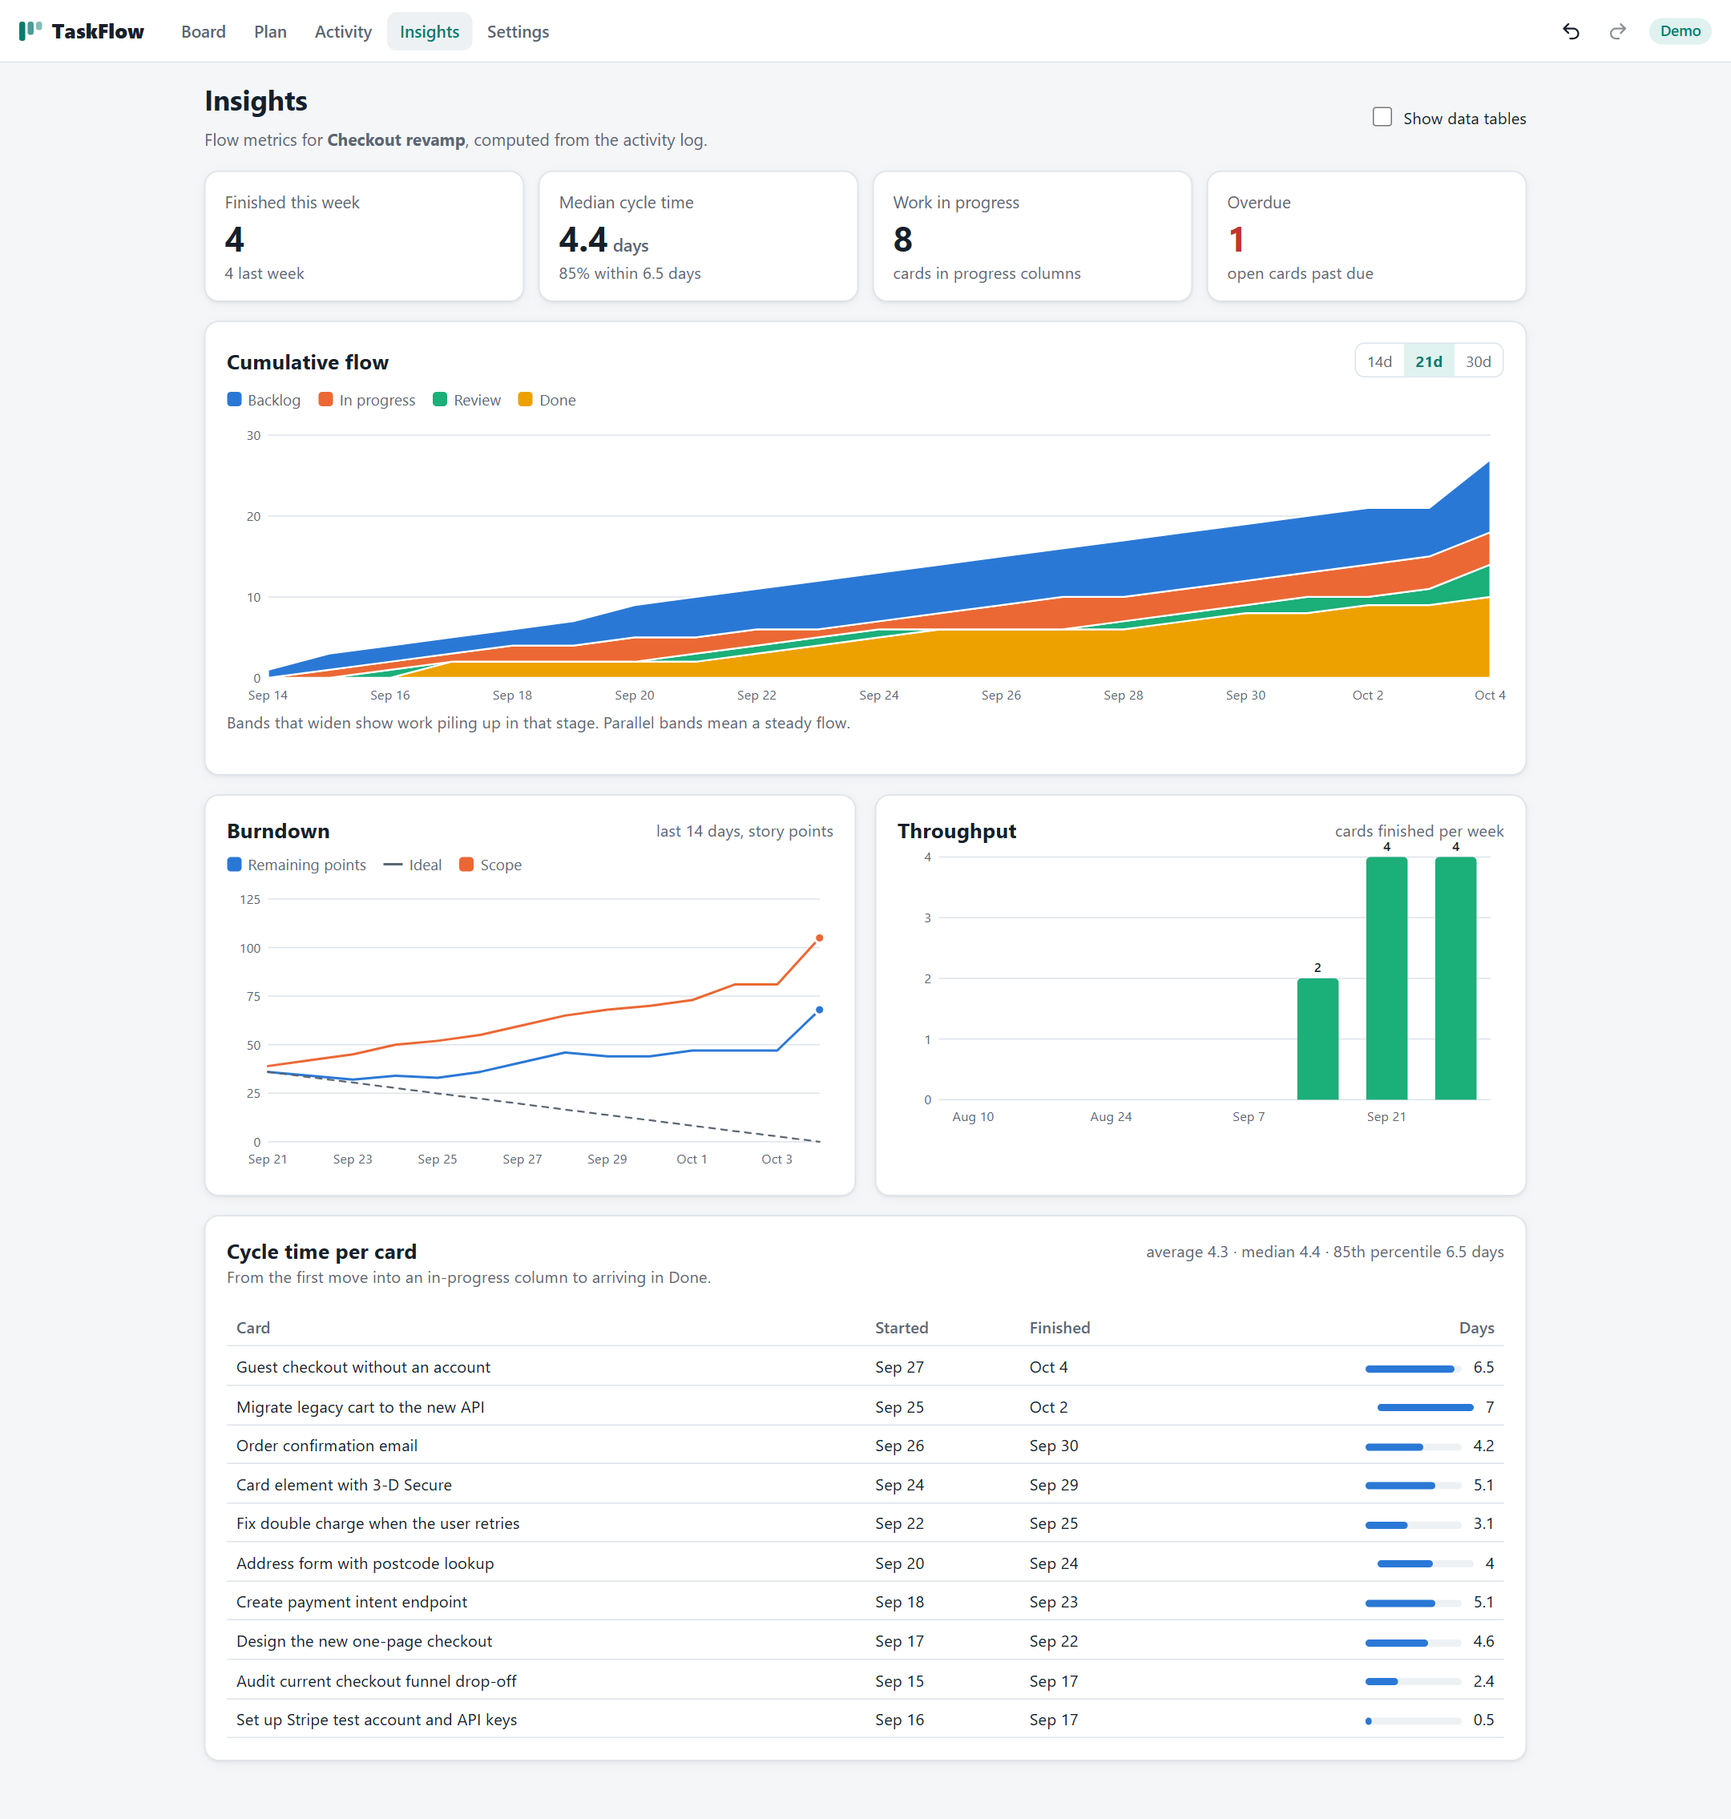
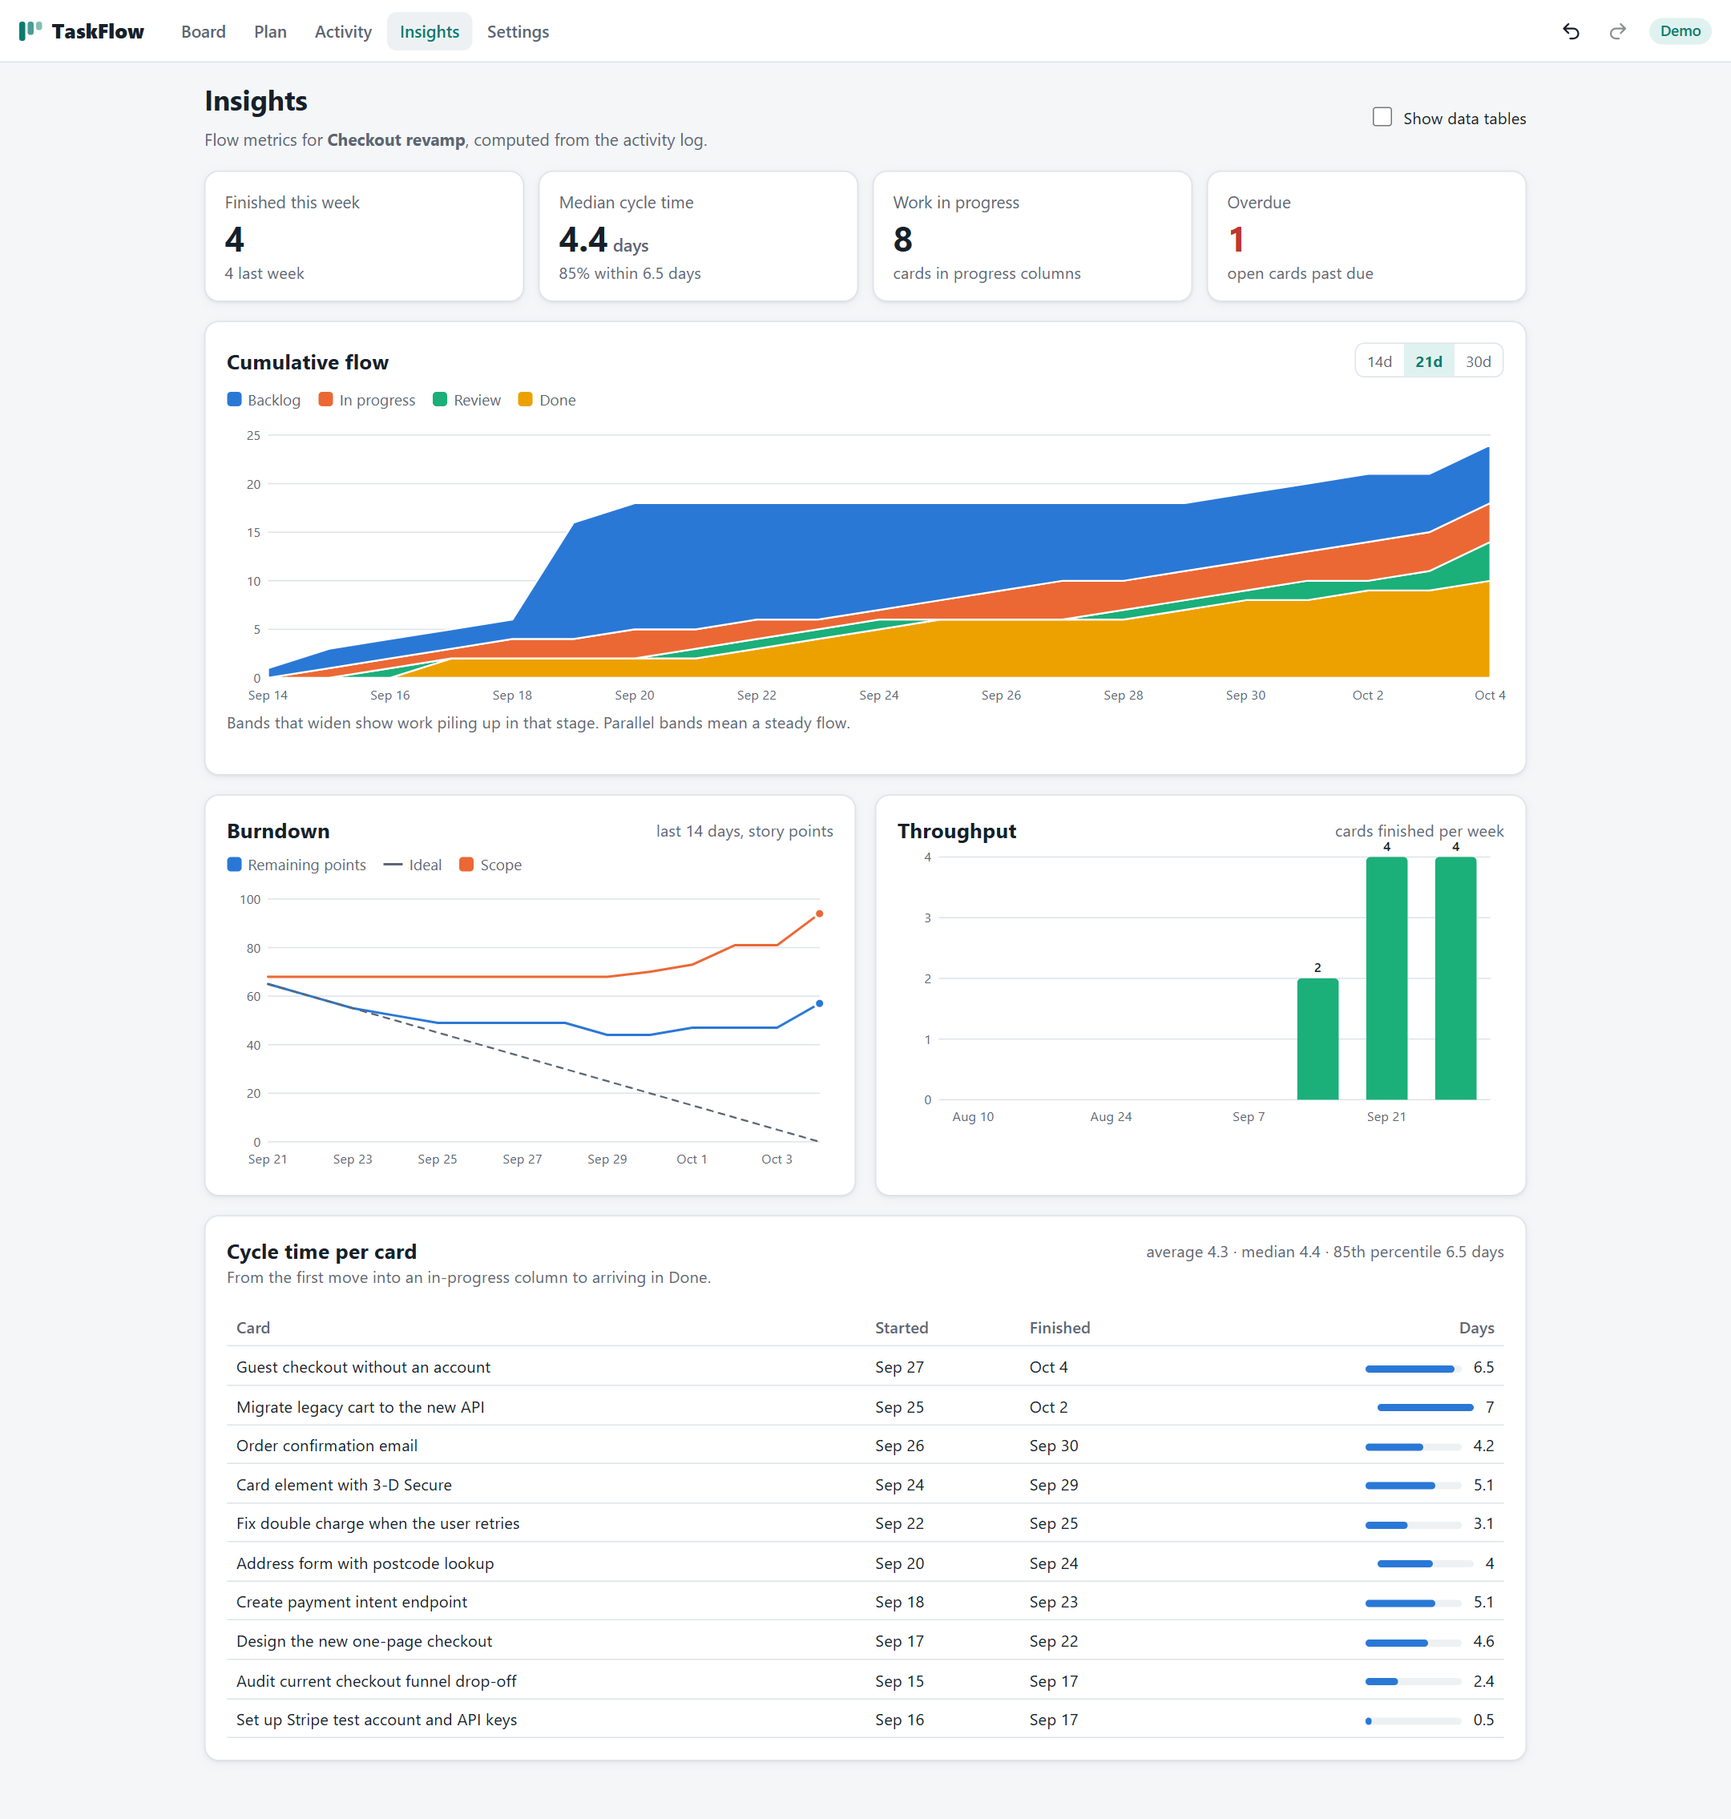
README with architecture, screenshots and testing notes; seed a sprint-shaped backlog

diff --git a/src/app/core/seed.ts b/src/app/core/seed.ts
@@ -49,7 +49,7 @@ const CHECKOUT: SeedCard[] = [
   { title: 'Create payment intent endpoint', labels: ['l-be'], who: 'Ben', points: 5, path: [[18, 'b'], [16.3, 'p'], [12.6, 'r'], [11.2, 'd']],
     description: '`POST /api/payments/intent` returns a client secret.\n\nMust be **idempotent**: reuse the intent for the same cart id.' },
   { title: 'Address form with postcode lookup', labels: ['l-fe'], who: 'Chen', points: 3, path: [[17, 'b'], [14.1, 'p'], [11.3, 'r'], [10.1, 'd']] },
-  { title: 'Fix double charge when the user retries', labels: ['l-bug', 'l-be'], who: 'Ben', priority: 'urgent', points: 3, path: [[12.5, 'b'], [12.3, 'p'], [10.4, 'r'], [9.2, 'd']],
+  { title: 'Fix double charge when the user retries', labels: ['l-bug', 'l-be'], who: 'Ben', priority: 'urgent', points: 3, path: [[15, 'b'], [12.3, 'p'], [10.4, 'r'], [9.2, 'd']],
     comments: [['Dana Novak', 'Two customers reported this on Friday. Refunded both manually.'], ['Ben Ortiz', 'Root cause: missing idempotency key on retry. Fix is in review.']] },
   { title: 'Card element with 3-D Secure', labels: ['l-fe'], who: 'Chen', points: 5, priority: 'high', path: [[15, 'b'], [10.2, 'p'], [6.3, 'r'], [5.1, 'd']] },
   { title: 'Order confirmation email', labels: ['l-be'], who: 'Dana', points: 2, path: [[14, 'b'], [8.4, 'p'], [5.4, 'r'], [4.2, 'd']] },
@@ -57,21 +57,21 @@ const CHECKOUT: SeedCard[] = [
   { title: 'Migrate legacy cart to the new API', labels: ['l-debt', 'l-be'], who: 'Ben', points: 8, path: [[16, 'b'], [9.1, 'p'], [4.3, 'r'], [2.1, 'd']],
     description: 'The old cart service still writes to the monolith database. Move reads and writes to the cart API and delete the old code path.' },
 
-  { title: 'Webhook handler for payment status', labels: ['l-be'], who: 'Ben', points: 5, priority: 'high', due: 1, path: [[13, 'b'], [5.2, 'p'], [1.1, 'r']],
+  { title: 'Webhook handler for payment status', labels: ['l-be'], who: 'Ben', points: 5, priority: 'high', due: 1, path: [[15, 'b'], [5.2, 'p'], [1.1, 'r']],
     checklist: [['Verify webhook signature', true], ['Ignore duplicate events', true], ['Handle payment_failed', false]] },
-  { title: 'Apple Pay and Google Pay buttons', labels: ['l-fe'], who: 'Chen', points: 3, due: 2, path: [[11, 'b'], [4.3, 'p'], [0.6, 'r']] },
-  { title: 'Accessibility pass on the checkout form', labels: ['l-fe', 'l-design'], who: 'Aisha', points: 2, path: [[9, 'b'], [3.2, 'p'], [0.3, 'r']],
+  { title: 'Apple Pay and Google Pay buttons', labels: ['l-fe'], who: 'Chen', points: 3, due: 2, path: [[15, 'b'], [4.3, 'p'], [0.6, 'r']] },
+  { title: 'Accessibility pass on the checkout form', labels: ['l-fe', 'l-design'], who: 'Aisha', points: 2, path: [[15, 'b'], [3.2, 'p'], [0.3, 'r']],
     description: 'Check with a screen reader and keyboard only.\n\n1. Every field has a visible label\n2. Errors are announced\n3. Focus moves to the first error on submit' },
 
-  { title: 'Refund flow in the admin panel', labels: ['l-be', 'l-blocked'], who: 'Dana', points: 5, priority: 'high', due: -1, path: [[10, 'b'], [2.2, 'p']],
+  { title: 'Refund flow in the admin panel', labels: ['l-be', 'l-blocked'], who: 'Dana', points: 5, priority: 'high', due: -1, path: [[15, 'b'], [2.2, 'p']],
     comments: [['Dana Novak', 'Blocked: waiting for finance to confirm partial refund rules.']] },
-  { title: 'Promo code field and validation', labels: ['l-fe'], who: 'Chen', points: 3, due: 3, path: [[8, 'b'], [1.2, 'p']] },
-  { title: 'Checkout analytics dashboard', labels: ['l-fe'], who: 'Aisha', points: 5, due: 5, path: [[6, 'b'], [0.4, 'p']],
+  { title: 'Promo code field and validation', labels: ['l-fe'], who: 'Chen', points: 3, due: 3, path: [[15, 'b'], [1.2, 'p']] },
+  { title: 'Checkout analytics dashboard', labels: ['l-fe'], who: 'Aisha', points: 5, due: 5, path: [[15, 'b'], [0.4, 'p']],
     description: 'A small dashboard for the product team: conversion per step, payment failures by reason, average order value.' },
 
   { title: 'Fix tax rounding on multi-currency orders', labels: ['l-bug'], who: 'Dana', priority: 'high', points: 2, due: 2, path: [[4, 'b']] },
-  { title: 'Saved cards for returning customers', labels: ['l-be', 'l-fe'], points: 5, due: 10, path: [[7, 'b']] },
-  { title: 'Sign in with Google at checkout', labels: ['l-fe'], who: 'Aisha', points: 3, path: [[5, 'b']] },
+  { title: 'Saved cards for returning customers', labels: ['l-be', 'l-fe'], points: 5, due: 10, path: [[15, 'b']] },
+  { title: 'Sign in with Google at checkout', labels: ['l-fe'], who: 'Aisha', points: 3, path: [[15, 'b']] },
   { title: 'Load test the payment API', labels: ['l-be'], who: 'Ben', points: 3, due: 6, path: [[3, 'b']] },
   { title: 'Mobile app checkout', labels: [], priority: 'medium', points: 8, path: [[2, 'b']],
     description: 'Bring the new one-page checkout to the **iOS and Android** apps. This is too big for one card: use *Break down* to split it.' },

diff --git a/README.md b/README.md
@@ -1,59 +1,117 @@
-# TaskflowAi
+# TaskFlow
 
-This project was generated using [Angular CLI](https://github.com/angular/angular-cli) version 20.3.37.
+![Angular](https://img.shields.io/badge/Angular-20-DD0031?logo=angular&logoColor=white)
+![NgRx](https://img.shields.io/badge/NgRx-Store%20%7C%20Effects%20%7C%20Entity%20%7C%20Signals-BA2BD2?logo=ngrx&logoColor=white)
+![TypeScript](https://img.shields.io/badge/TypeScript-strict-3178C6?logo=typescript&logoColor=white)
+![LLM](https://img.shields.io/badge/LLM-Gemini%20%7C%20Groq-8E75B2)
+![CI](https://github.com/Konicamaheshwarii/taskflow-ai/actions/workflows/ci.yml/badge.svg)
+![License](https://img.shields.io/badge/license-MIT-blue)
 
-## Development server
+A Kanban project board built on NgRx, with AI task planning. Drag cards between columns, set WIP limits, filter and group by assignee, and undo anything. Ask the AI to break a big card into estimated subtasks, turn a goal into an epic with user stories and acceptance criteria, or write the daily standup from the board's activity log. An Insights page draws a cumulative flow diagram, a burndown, throughput and per-card cycle time, all computed from that log.
 
-To start a local development server, run:
+**[▶ Live demo](https://konicamaheshwarii.github.io/taskflow-ai/)**: opens on a seeded demo board in Demo mode. No key or sign-up needed.
 
-```bash
-ng serve
+![Board with WIP limits](docs/board.png)
+
+## Features
+
+- **Kanban boards.** Multiple boards with columns, WIP limits (amber at the limit, red when over) and a stage per column (not started, in progress, done).
+- **Rich cards.** Title, Markdown description (rendered by an escaping renderer), labels, assignee, due date, priority, story points, checklist and comments.
+- **Drag and drop** of cards between columns and of columns themselves, using `@angular/cdk/drag-drop`. Drops work in filtered views too.
+- **Keyboard moves.** Every card and column has an accessible menu (`@angular/cdk/menu`): move to column, move up or down, move a column left or right. Moves are announced to screen readers.
+- **Undo / redo** for every board change (Ctrl+Z, Ctrl+Shift+Z or Ctrl+Y, or the header buttons).
+- **Filters and swimlanes.** Search, labels, assignee, due date (overdue, due this week, none), and a swimlane view by assignee where dragging into another lane reassigns the card.
+- **Live sync across tabs.** Open the app in two tabs and changes appear in both (BroadcastChannel). Everything is saved in localStorage.
+- **AI: Break down.** Turns a card's goal into 4-8 subtasks with hour estimates. Add them as a checklist or as new cards.
+- **AI: Plan a sprint.** Paste a goal or spec and get an epic with user stories, acceptance criteria, points and priorities. Preview, untick what you don't want, then create the cards.
+- **AI: Standup summary.** Done, in progress and blockers for the last day, three days or week, written from the activity log, overdue cards and WIP alerts.
+- **Insights.** Cumulative flow, burndown with ideal and scope lines, weekly throughput and cycle time per card, as hand-written SVG charts with hover tooltips and optional data tables.
+- **Bring your own key** for Google Gemini or Groq (both have free tiers). Keys stay in your browser and go straight to the provider; there is no backend.
+- **Offline Demo mode** (the default): keyword templates for auth, payments, dashboards, landing pages, APIs, mobile apps, migrations, search and notifications, plus rule-based standups. Demo output goes through the same JSON validation as real model replies.
+- **Light and dark themes**, responsive down to 390px.
+
+| AI breakdown | Sprint planning |
+|---|---|
+| ![Break down a card](docs/breakdown.png) | ![Plan a sprint](docs/plan.png) |
+
+| Insights | Mobile, dark |
+|---|---|
+| ![Insights](docs/insights.png) | ![Mobile dark](docs/mobile-dark.png) |
+
+## Architecture
+
+```mermaid
+flowchart LR
+    UI[Standalone pages<br/>board · plan · activity · insights] --> Facade[BoardFacade]
+    UI --> UiStore[BoardUiStore<br/>signalStore: filters, lanes]
+    Facade --> Store[(NgRx Store<br/>kanban · history · ai)]
+    Store --> Meta[undoRedo<br/>meta-reducer]
+    Store --> Sel[memoized selectors]
+    Store --> Effects
+    Effects --> AI[AiEffects]
+    Effects --> Sync[SyncEffects]
+    AI --> LLM[LlmService]
+    LLM --> Gemini & Groq & Demo[DemoProvider<br/>keyword templates]
+    AI --> Parse[prompts.ts<br/>build + validate JSON]
+    Sync --> LS[(localStorage)]
+    Sync <--> BC{{BroadcastChannel<br/>other tabs}}
+    Store --> Metrics[metrics.ts<br/>CFD · burndown · cycle time]
 ```
 
-Once the server is running, open your browser and navigate to `http://localhost:4200/`. The application will automatically reload whenever you modify any of the source files.
+- **NgRx for shared state.** Boards, columns, cards, labels and members are `@ngrx/entity` collections in one `kanban` feature built with `createFeature`. Actions are grouped with `createActionGroup`, and every mutation carries its own timestamp and id so reducers stay pure. Runtime immutability checks are on, and Redux DevTools are connected (`provideStoreDevtools`).
+- **Signals for local UI state.** Filters and the swimlane toggle live in an `@ngrx/signals` `signalStore`, because they belong to one tab and should not be synced, persisted with the board, or undone.
+- **Memoized selectors.** `selectBoardView` only recomputes when the active board, its columns or the card entities change; the component then narrows it with the filter signal.
+- **Undo/redo as a meta-reducer.** It snapshots the `kanban` slice before each board action. Immutable state makes snapshots cheap (structural sharing). Selection, AI actions and remote changes are not recorded, and history is capped at 50 steps.
+- **Activity log as the source of truth for metrics.** Each create, move and delete is logged with the column's stage at the time. Cycle time, cumulative flow, burndown and throughput are pure functions of that log, so they work for past days and survive column renames.
+- **Tab sync without echo.** `SyncEffects` saves and broadcasts only after local board actions. Incoming state is applied as `Remote State Received`, which is never re-broadcast and keeps each tab on the board it is viewing.
+- **Defensive AI output handling.** Code fences, surrounding prose and `<think>` blocks are stripped. Subtasks are de-duplicated and hours clamped, story points snap to the Fibonacci scale, unknown priorities fall back to medium, and empty results raise clear errors. User text is fenced in tags and treated as data.
+- **Safe Markdown.** The renderer escapes all input first and only emits a fixed set of tags; links are limited to http(s) and mailto. Angular's sanitizer runs on top.
+- **Zoneless, OnPush, lazy routes, hash routing** for GitHub Pages. About 102 kB initial transfer.
 
-## Code scaffolding
-
-Angular CLI includes powerful code scaffolding tools. To generate a new component, run:
-
-```bash
-ng generate component component-name
+```
+src/app
+├── core
+│   ├── state/          actions, reducer, selectors, undo-redo, effects, facade, persistence + tab sync
+│   ├── ai/             prompts + validation, demo planner, standup input builder
+│   ├── llm/            provider interface, Gemini, Groq, Demo, SSE reader
+│   ├── board-rules.ts  WIP, filters, swimlanes, drop-index mapping
+│   ├── board-ui.store.ts  signalStore for filters and layout
+│   ├── metrics.ts      cycle time, cumulative flow, burndown, throughput
+│   ├── markdown.ts     escaping Markdown renderer
+│   └── seed.ts         demo workspace with three weeks of history
+├── features/           board (+ card tile, card dialog) · plan · activity · insights (+ SVG charts) · settings
+└── shared/             formatting helpers, autofocus directive
 ```
 
-For a complete list of available schematics (such as `components`, `directives`, or `pipes`), run:
+## Getting started
 
 ```bash
-ng generate --help
+npm install
+npm start          # http://localhost:4200
+npm run test:ci    # unit tests in headless Chrome
+npm run build
 ```
 
-## Building
+Open **Settings** to switch from Demo to Gemini or Groq and paste a free key:
+[Gemini](https://aistudio.google.com/apikey) · [Groq](https://console.groq.com/keys). Settings also lets you manage team members and labels, and restore the demo workspace.
 
-To build the project run:
+Install the [Redux DevTools](https://github.com/reduxjs/redux-devtools) browser extension to inspect actions, state and time-travel.
 
-```bash
-ng build
-```
+## Testing
 
-This will compile your project and store the build artifacts in the `dist/` directory. By default, the production build optimizes your application for performance and speed.
+52 unit tests cover the logic most likely to break:
 
-## Running unit tests
+- **Reducers**: card add/move/reorder, activity logging, no-op updates, column and board deletion, label and member removal, remote state merging.
+- **Selectors**: board view ordering, WIP status and memoization.
+- **Effects** with a mocked LLM: breakdown, sprint and standup success paths, invalid JSON and provider errors, persistence and broadcasting without echo.
+- **Undo/redo meta-reducer**: undo, redo, redo-stack clearing, what is not recorded, the history cap.
+- **WIP rules, filters, drop-index mapping and swimlanes**, plus the filter `signalStore`.
+- **Metrics**: cycle time, cumulative flow, burndown and weekly throughput on a scripted history.
+- **AI**: JSON extraction and validation, prompt fencing, the demo breakdown and sprint planners, the rule-based standup, and the seeded workspace.
+- **Markdown** escaping and link filtering, SSE parsing and provider error messages.
 
-To execute unit tests with the [Karma](https://karma-runner.github.io) test runner, use the following command:
+CI (GitHub Actions) runs the tests and the production build on every push, then deploys `main` to GitHub Pages.
 
-```bash
-ng test
-```
+## License
 
-## Running end-to-end tests
-
-For end-to-end (e2e) testing, run:
-
-```bash
-ng e2e
-```
-
-Angular CLI does not come with an end-to-end testing framework by default. You can choose one that suits your needs.
-
-## Additional Resources
-
-For more information on using the Angular CLI, including detailed command references, visit the [Angular CLI Overview and Command Reference](https://angular.dev/tools/cli) page.
+[MIT](LICENSE)
